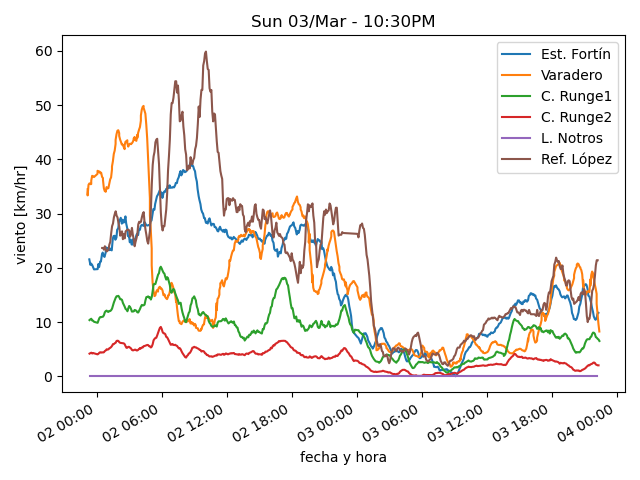
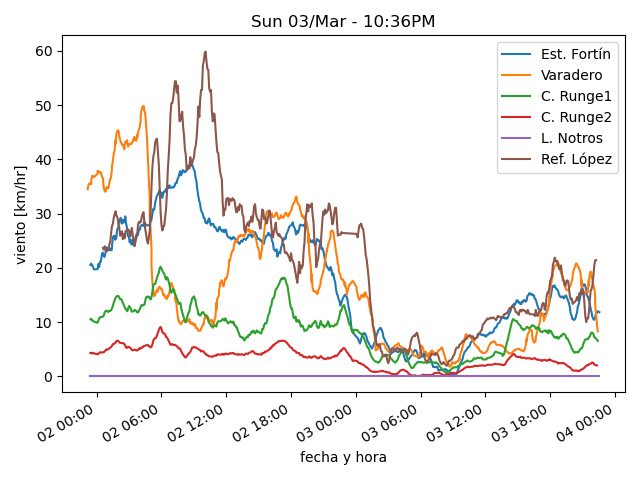
actualiza datos

diff --git a/estaciones/estacion1.html b/estaciones/estacion1.html
@@ -18,32 +18,32 @@
     </tr>
     <tr>
      <td class="stats_data">
-      10:19PM
+      10:33PM
      </td>
     </tr>
     <tr>
      <td class="stats_data">
-      15.1
+      14.5
      </td>
     </tr>
     <tr>
      <td class="stats_data">
-      3.8
+      3.4
      </td>
     </tr>
     <tr>
      <td class="stats_data">
-      46.7
+      47.5
      </td>
     </tr>
     <tr>
      <td class="stats_data">
-      1019.98
+      1020.32
      </td>
     </tr>
     <tr>
      <td class="stats_data">
-      6.8/16.1 NW
+      4.8/9.7 WNW
      </td>
     </tr>
     <tr>

diff --git a/estaciones/estacion5.html b/estaciones/estacion5.html
@@ -18,17 +18,17 @@
     </tr>
     <tr>
      <td class="stats_data">
-      10:10PM
+      10:30PM
      </td>
     </tr>
     <tr>
      <td class="stats_data">
-      8.1
+      7.3
      </td>
     </tr>
     <tr>
      <td class="stats_data">
-      2.7
+      1.9
      </td>
     </tr>
     <tr>
@@ -38,7 +38,7 @@
     </tr>
     <tr>
      <td class="stats_data">
-      1023.43
+      1024.01
      </td>
     </tr>
     <tr>
